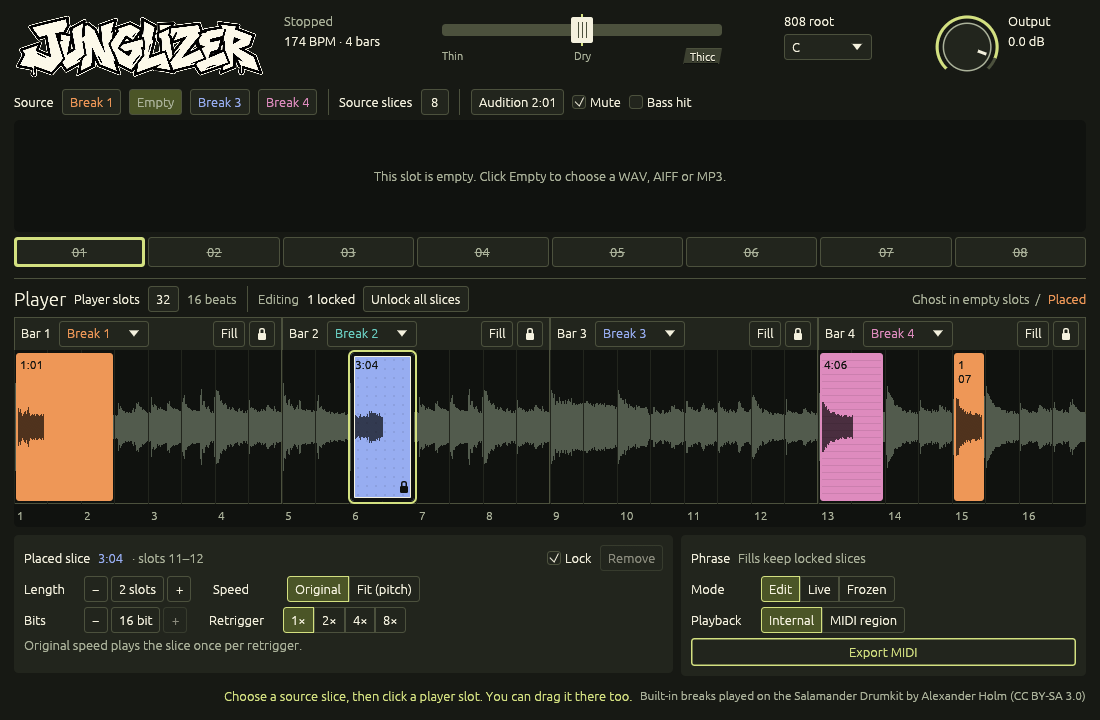
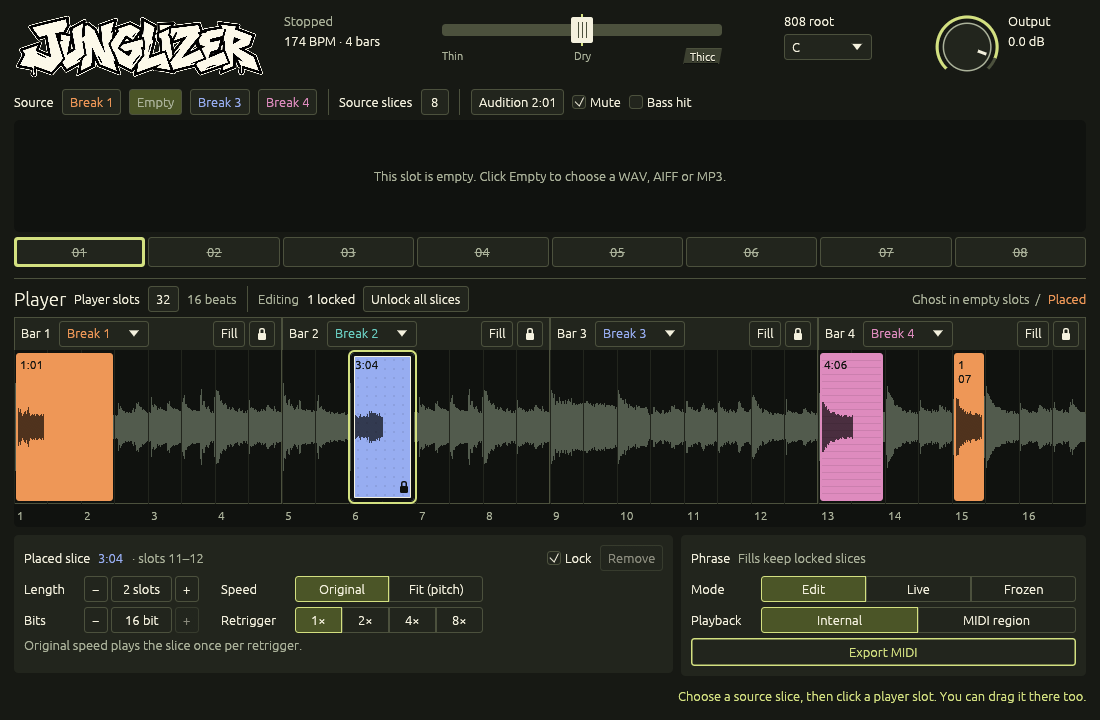
Footer grid and credit in the wordmark hover
- Segmented controls take an explicit total width split evenly. Speed
  and Retrigger share a label column and a 188 px width; Mode and
  Playback share a label column and fill the panel, ending flush with
  Export MIDI.
- Every stepper's value field is as wide as "32 slots", so the − and +
  buttons line up.
- The Salamander credit moves from the status row to the second line of
  the wordmark's hover text; the message gets the row.
- Re-render the review fixtures.

diff --git a/src/ui.rs b/src/ui.rs
@@ -20,8 +20,8 @@ const EDGE: Color32 = Color32::from_rgb(76, 81, 61);
 const INK: Color32 = Color32::from_rgb(244, 241, 222);
 const MUTED: Color32 = Color32::from_rgb(171, 178, 154);
 const ACCENT: Color32 = Color32::from_rgb(211, 224, 128);
-const CREDIT: &str =
-    "Built-in breaks played on the Salamander Drumkit by Alexander Holm (CC BY-SA 3.0)";
+/// The wordmark's hover text, which carries the drum kit credit.
+const WORDMARK_HOVER: &str = "Junglizer • Four-bar break instrument\nBuilt-in breaks played on the Salamander Drumkit by Alexander Holm (CC BY-SA 3.0)";
 const INITIAL_MESSAGE: &str =
     "Choose a source slice, then click a player slot. You can drag it there too.";
 const UNDO_HINT: &str = if cfg!(target_os = "macos") {
@@ -797,7 +797,7 @@ impl JunglizerUi {
             });
         });
         ui.horizontal(|ui| {
-            field_label(ui, "Length", 52.0);
+            field_label(ui, "Length", STEPPER_LABEL);
             let mut span = current.span_slots;
             let max = self.state.get().player_slots - current.start_slot;
             let suffix = if span == 1 { " slot" } else { " slots" };
@@ -812,9 +812,10 @@ impl JunglizerUi {
                 context.automate(P::EditLength, f64::from(span - 1) / 31.0);
             }
             ui.add_space(14.0);
-            field_label(ui, "Speed", 66.0);
+            field_label(ui, "Speed", CHOICE_LABEL);
             if let Some(mode) = segmented(
                 ui,
+                CHOICE_WIDTH,
                 current.mode,
                 &[(0, "Original", true, ""), (1, "Fit (pitch)", true, "")],
                 None,
@@ -825,7 +826,7 @@ impl JunglizerUi {
             }
         });
         ui.horizontal(|ui| {
-            field_label(ui, "Bits", 52.0);
+            field_label(ui, "Bits", STEPPER_LABEL);
             let mut bits = current.bit_depth;
             if stepper(
                 ui,
@@ -838,9 +839,10 @@ impl JunglizerUi {
                 context.automate(P::EditBits, f64::from(bits - 1) / 15.0);
             }
             ui.add_space(14.0);
-            field_label(ui, "Retrigger", 66.0);
+            field_label(ui, "Retrigger", CHOICE_LABEL);
             if let Some(n) = segmented(
                 ui,
+                CHOICE_WIDTH,
                 current.repeats,
                 &[
                     (1_u8, "1×", true, ""),
@@ -1291,10 +1293,9 @@ impl EditorUi<JunglizerParams> for JunglizerUi {
                         } else {
                             &self.message
                         };
-                        // Credit first, fixed at the right, then the reveal button;
-                        // the message takes what's left and truncates, so nothing overlaps.
+                        // The reveal and undo buttons at the right; the message
+                        // takes what's left and truncates, so nothing overlaps.
                         ui.with_layout(egui::Layout::right_to_left(egui::Align::Center), |ui| {
-                            ui.label(egui::RichText::new(CREDIT).small().color(MUTED));
                             let path = self.export_path.clone();
                             if let Some(path) = &path {
                                 if ui.small_button(crate::platform::REVEAL_LABEL).clicked() {
@@ -1675,9 +1676,9 @@ impl JunglizerUi {
                         .maintain_aspect_ratio(false)
                         .fit_to_exact_size(vec2(250.0, 65.0)),
                 )
-                .on_hover_text("Junglizer • Four-bar break instrument");
+                .on_hover_text(WORDMARK_HOVER);
             } else {
-                ui.heading("JUNGLIZER");
+                ui.heading("JUNGLIZER").on_hover_text(WORDMARK_HOVER);
             }
             ui.add_space(12.0);
             ui.spacing_mut().item_spacing.x = 0.0;
@@ -2011,7 +2012,7 @@ impl JunglizerUi {
             ui.colored_label(MUTED, "Fills keep locked slices");
         });
         ui.horizontal(|ui| {
-            field_label(ui, "Mode", 62.0);
+            field_label(ui, "Mode", PHRASE_LABEL);
             let mode = if frozen {
                 2
             } else if live_on {
@@ -2022,6 +2023,7 @@ impl JunglizerUi {
             let can_freeze = !live_on || live.is_some();
             let choice = segmented(
                 ui,
+                ui.available_width(),
                 mode,
                 &[
                     (0, "Edit", true, ""),
@@ -2089,10 +2091,11 @@ impl JunglizerUi {
             }
         });
         ui.horizontal(|ui| {
-            field_label(ui, "Playback", 62.0);
+            field_label(ui, "Playback", PHRASE_LABEL);
             let midi = context.params().playback.value() != 0;
             if let Some(choice) = segmented(
                 ui,
+                ui.available_width(),
                 u8::from(midi),
                 &[(0, "Internal", true, ""), (1, "MIDI region", true, "")],
                 Some(&[
@@ -2122,6 +2125,15 @@ impl JunglizerUi {
         }
     }
 }
+
+// The footer grid: shared label columns, and one width for the Speed and
+// Retrigger choices so their groups end together.
+const STEPPER_LABEL: f32 = 52.0;
+const CHOICE_LABEL: f32 = 66.0;
+const PHRASE_LABEL: f32 = 62.0;
+const CHOICE_WIDTH: f32 = 188.0;
+/// The widest stepper value, which sets every stepper's value field.
+const STEPPER_WIDEST: &str = "32 slots";
 
 /// A fixed-width field label, so rows of controls line up.
 fn field_label(ui: &mut Ui, text: &str, width: f32) {
@@ -2158,8 +2170,25 @@ fn stepper(
             *value -= 1;
             changed = true;
         }
+        // One width for every stepper, so the − and + buttons line up.
+        let widest = ui
+            .painter()
+            .layout_no_wrap(
+                STEPPER_WIDEST.to_owned(),
+                egui::TextStyle::Body.resolve(ui.style()),
+                INK,
+            )
+            .size()
+            .x;
+        let field = vec2(
+            (widest + 2.0 * ui.spacing().button_padding.x).ceil(),
+            ui.spacing().interact_size.y,
+        );
         changed |= ui
-            .add(egui::DragValue::new(value).range(low..=high).suffix(suffix))
+            .add_sized(
+                field,
+                egui::DragValue::new(value).range(low..=high).suffix(suffix),
+            )
             .on_hover_text(format!("{hover} · drag or type a value"))
             .changed();
         if ui
@@ -2178,12 +2207,14 @@ fn stepper(
     .inner
 }
 
-/// Framed choices joined into one control: the selected one on SELECTION,
-/// the rest on SURFACE. Each option is (value, label, enabled, why it's
+/// Framed choices joined into one control `width` wide, split evenly so
+/// stacked controls line up: the selected one on SELECTION, the rest on
+/// SURFACE. Each option is (value, label, enabled, why it's
 /// disabled). With `hovers`, each option explains itself. Returns the
 /// clicked value, if any.
 fn segmented<T: Copy + PartialEq>(
     ui: &mut Ui,
+    width: f32,
     current: T,
     options: &[(T, &str, bool, &str)],
     hovers: Option<&[&str]>,
@@ -2192,6 +2223,9 @@ fn segmented<T: Copy + PartialEq>(
     ui.scope(|ui| {
         ui.spacing_mut().item_spacing.x = 0.0;
         let last = options.len() - 1;
+        // Even shares of `width`; the last segment takes the rounding.
+        let share = (width / options.len() as f32).floor();
+        let height = ui.spacing().interact_size.y;
         for (i, &(value, label, enabled, disabled_hover)) in options.iter().enumerate() {
             let selected = value == current;
             let radius = egui::CornerRadius {
@@ -2206,7 +2240,14 @@ fn segmented<T: Copy + PartialEq>(
             if selected {
                 button = button.stroke(Stroke::new(1.0_f32, ACCENT));
             }
-            let mut response = ui.add_enabled(enabled, button);
+            let segment = if i == last {
+                width - share * last as f32
+            } else {
+                share
+            };
+            let mut response = ui
+                .add_enabled_ui(enabled, |ui| ui.add_sized(vec2(segment, height), button))
+                .inner;
             if let Some(text) = hovers.and_then(|h| h.get(i)) {
                 response = response.on_hover_text(*text);
             }

diff --git a/DESIGN.md b/DESIGN.md
@@ -111,7 +111,7 @@ Default editor size is (1100 × 720 px), with a vertical scroll fallback and the
 
 Source pads divide the full width equally at the current slice count, using the slice-gap token, minimum width (26 px), and height (30 px). The player includes a 16-beat ruler within its height token. Each bar heading reads `Bar N [Break N ▾] … [Fill] [lock]`: the break dropdown, then a Fill button and a painted padlock button (the placement padlock, 26 × 22 px) at the right. Fill suggests a fill for that bar and Lock locks that bar’s slices; both are disabled while frozen or live, with hover text. Player slots divide the phrase evenly; source cuts remain sound-aligned and uneven.
 
-The footer is one row of two panels, Placed slice at about 62% of the width and Phrase at about 38%, with an 8 px gap. Each has minimum inner height (118 px), footer inset, and footer radius. Placed slice: a title row (`Placed slice 3:04 · slots 11–12`, with Lock and Remove right-aligned), then `Length [−] 2 slots [+]` with `Speed [Original | Fit (pitch)]`, `Bits [−] 16 bit [+]` with `Retrigger [1× | 2× | 4× | 8×]`, and a muted hint. Its empty state names what a click would place (“Next: 3:04. Click a slot or press Enter.”), and frozen, live and no-break states explain instead. Phrase: `Mode [Edit | Live | Frozen]`, `Playback [Internal | MIDI region]`, and a full-width Export MIDI. At most three choices per row. Field labels have fixed widths so the controls line up. Feedback remains one row; export feedback includes its destination in the text and the full path in a tooltip, and an `Undo <action>` small button appears there while an undo is available. Native interaction size is (28 × 26 px), not a universal 28 px minimum height. The header has a 280 px Thin/Thicc crossfader, an 88 px 808 root selector, and a far-right 66 px Output rotary control with adjacent dB readout; the general slider width is (108 px). No mobile breakpoint system is implemented.
+The footer is one row of two panels, Placed slice at about 62% of the width and Phrase at about 38%, with an 8 px gap. Each has minimum inner height (118 px), footer inset, and footer radius. Placed slice: a title row (`Placed slice 3:04 · slots 11–12`, with Lock and Remove right-aligned), then `Length [−] 2 slots [+]` with `Speed [Original | Fit (pitch)]`, `Bits [−] 16 bit [+]` with `Retrigger [1× | 2× | 4× | 8×]`, and a muted hint. Its empty state names what a click would place (“Next: 3:04. Click a slot or press Enter.”), and frozen, live and no-break states explain instead. Phrase: `Mode [Edit | Live | Frozen]`, `Playback [Internal | MIDI region]`, and a full-width Export MIDI. At most three choices per row. The controls sit on one grid. Length and Bits share a 52 px label column, and every stepper’s value field is as wide as the widest value (“32 slots”), so the − and + buttons line up. Speed and Retrigger share a 66 px label column, and both choice groups are 188 px wide, split evenly, so they start and end together. Mode and Playback share a 62 px label column, and both groups fill the rest of the panel, ending flush with Export MIDI. Feedback remains one row, which the message now has to itself apart from the Reveal and Undo buttons on the right. Export feedback includes its destination in the text and the full path in a tooltip, and an `Undo <action>` small button appears while an undo is available. The Salamander Drumkit credit is the second line of the wordmark’s hover text, under “Junglizer • Four-bar break instrument”. Native interaction size is (28 × 26 px), not a universal 28 px minimum height. The header has a 280 px Thin/Thicc crossfader, an 88 px 808 root selector, and a far-right 66 px Output rotary control with adjacent dB readout; the general slider width is (108 px). No mobile breakpoint system is implemented.
 
 ## Elevation & Depth
 
@@ -129,7 +129,7 @@ Use the widget radius for native controls, the waveform radius for audio wells, 
 - **Player:** neutral gray ghost waveforms remain behind opaque source-colored replacements. Source-specific envelope previews are computed from the selected slice and account for Original/Fit timing, retriggers, and silent tails; they are not decorative copies of the full break. Placement labels are dark; narrow labels stack below width (48 px). Selection combines a dark inner border (3 px) and lime outer border (2 px). Locks have an ivory inner ring and dark padlock; empty selected slots retain a lime outline (2 px).
 - **Transport and focus:** playing adds an active-bar header, subtle lime body tint (alpha 14), active beat text, and a white playhead (2 px) over a dark under-stroke (5 px). Stopped transport has no playhead. Player keyboard focus has a lime outline (2 px); arrows select slots and Enter places the chosen source slice. Mouse, keyboard, and controller selection share persistent state indicators.
 - **Inspector and phrase actions:** a selected editable placement exposes length, speed, bit depth, retriggers, lock, and removal. Live and frozen states replace the inspector with guidance. Freeze and individual Lock remain distinct; Edit mode (which unfreezes) and Unlock all slices, in the Player heading, provide separate recovery paths. The Player heading shows only a status label for the mode. Internal/MIDI region modes and export success/failure feedback remain explicit.
-- **Segmented controls:** framed buttons joined with no gap, outer corners at the widget radius. The selected segment is the selection fill with lime text and a 1 px lime border; the others are surface with the edge border, so every option reads as clickable. Disabled segments explain themselves on hover (Live while frozen: choose Edit first).
+- **Segmented controls:** framed buttons joined with no gap, with an explicit total width divided evenly between the options (the last takes the rounding), and outer corners at the widget radius. The selected segment is the selection fill with lime text and a 1 px lime border; the others are surface with the edge border, so every option reads as clickable. Disabled segments explain themselves on hover (Live while frozen: choose Edit first).
 - **Steppers:** a draggable value with − and + buttons beside it (24 px minimum width), which disable at the ends of the range.
 - **Export MIDI:** full panel width, 28 px tall. At rest it has a lime outline (1.5 px) and lime text on surface; when the phrase is frozen it becomes the solid lime fill with dark text.
 - **Undo:** one level, for Fill and Remove only. Cmd+Z on macOS, Ctrl+Z elsewhere, or the feedback row’s Undo button. It’s dropped as soon as anything else changes the pattern, and is unavailable while frozen or live.
